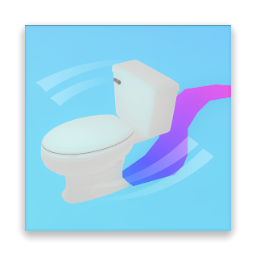
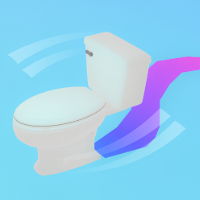
.

diff --git a/_projects/Toilet Spinner.md b/_projects/Toilet Spinner.md
@@ -2,7 +2,7 @@
 layout: page
 title: Toilet Spinner
 description: You are a spiny toilet and your goal is to fill tubs with water!
-img: assets/img/fert.png
+img: assets/img/toilet.png
 importance: 6
 category: games (personal)
 ---
